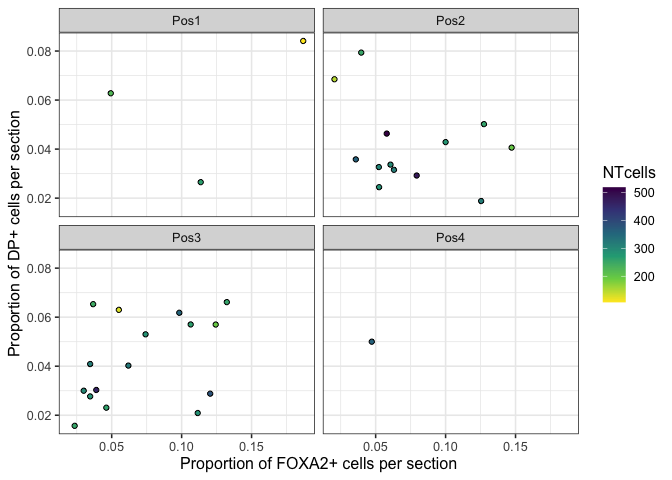
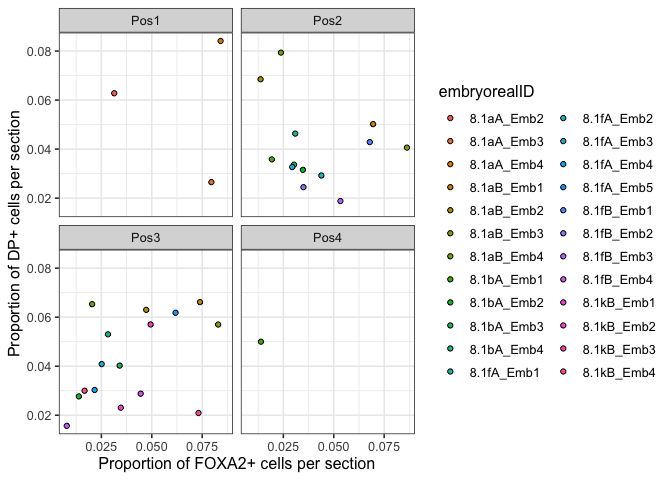
Update cKO segmentation

diff --git a/r_files/DP_segment_FOXA2KO.md b/r_files/DP_segment_FOXA2KO.md
@@ -73,7 +73,7 @@ ggplot(segment_cp_clean, aes(x=Location_Center_X,y=-Location_Center_Y)) +
   geom_point(size=0.1, aes(color=Intensity_MeanIntensity_FOXA2_Image))+
   scale_color_gradient2(low = "grey", mid = "white", high = "brown") +
   facet_wrap( ~ embryoID) +
-  coord_fixed(ratio = 1, xlim = NULL, ylim = NULL, expand = TRUE, clip = "on") +
+  #coord_fixed(ratio = 1, xlim = NULL, ylim = NULL) +
   theme_bw()
 ```
 
@@ -85,7 +85,7 @@ ggplot(segment_cp_clean, aes(x=Location_Center_X,y=-Location_Center_Y)) +
   geom_point(size=0.1, aes(color=Intensity_MeanIntensity_SOX2_Image))+
   scale_color_gradient2(low = "grey", mid = "white", high = "brown") +
   facet_wrap( ~ embryoID) +
-  coord_fixed(ratio = 1, xlim = NULL, ylim = NULL, expand = TRUE, clip = "on") +
+  #coord_fixed(ratio = 1, xlim = NULL, ylim = NULL, expand = TRUE, clip = "on") +
   theme_bw()
 ```
 
@@ -97,7 +97,7 @@ ggplot(segment_cp_clean, aes(x=Location_Center_X,y=-Location_Center_Y)) +
 sox2_thres = 0.25
 nkx22_thress = 0.35
 olig2_thress = 0.2
-foxa2_thress = 0.15
+foxa2_thress = 0.3
 
 ggplot(segment_cp_clean, aes(x=Intensity_MeanIntensity_SOX2_Image, y=Intensity_MeanIntensity_OLIG2_Image)) +
   geom_hex(binwidth = c(0.04, 0.04))  +
@@ -106,7 +106,7 @@ ggplot(segment_cp_clean, aes(x=Intensity_MeanIntensity_SOX2_Image, y=Intensity_M
   scale_x_log10()+
   scale_y_log10() +
   facet_wrap(~ embryoID) +
-  coord_fixed(ratio = 1, xlim = NULL, ylim = NULL, expand = TRUE, clip = "on") +
+  # coord_fixed(ratio = 1, xlim = NULL, ylim = NULL, expand = TRUE, clip = "on") +
   theme_bw()
 ```
 
@@ -120,7 +120,7 @@ ggplot(segment_cp_clean, aes(x=Intensity_MeanIntensity_SOX2_Image, y=Intensity_M
   scale_x_log10()+
   scale_y_log10() +
   facet_wrap(~ embryoID) +
-  coord_fixed(ratio = 1, xlim = NULL, ylim = NULL, expand = TRUE, clip = "on") +
+  # coord_fixed(ratio = 1, xlim = NULL, ylim = NULL, expand = TRUE, clip = "on") +
   theme_bw()
 ```
 
@@ -134,7 +134,7 @@ ggplot(segment_cp_clean, aes(x=Intensity_MeanIntensity_OLIG2_Image, y=Intensity_
   scale_x_log10()+
   scale_y_log10() +
   facet_wrap(~ embryoID) +
-  coord_fixed(ratio = 1, xlim = NULL, ylim = NULL, expand = TRUE, clip = "on") +
+  # coord_fixed(ratio = 1, xlim = NULL, ylim = NULL, expand = TRUE, clip = "on") +
   theme_bw()
 ```
 
@@ -148,11 +148,26 @@ ggplot(segment_cp_clean, aes(x=Intensity_MeanIntensity_FOXA2_Image, y=Intensity_
   scale_x_log10()+
   scale_y_log10() +
   facet_wrap(~ embryoID) +
-  coord_fixed(ratio = 1, xlim = NULL, ylim = NULL, expand = TRUE, clip = "on") +
+  # coord_fixed(ratio = 1, xlim = NULL, ylim = NULL, expand = TRUE, clip = "on") +
   theme_bw()
 ```
 
 ![](DP_segment_FOXA2KO_files/figure-gfm/unnamed-chunk-6-4.png)<!-- -->
+
+``` r
+ggplot(segment_cp_clean, aes(x=Intensity_MeanIntensity_FOXA2_Image, y=Intensity_MeanIntensity_NKX22_Image)) +
+  geom_point(size=0.2, aes(color=Intensity_MeanIntensity_FOXA2_Image)) +
+  scale_color_gradient2(low = "grey", mid = "white", high = "brown") +
+  geom_vline(xintercept=foxa2_thress,  linetype="dashed", color = "blue") +
+  geom_hline(yintercept=nkx22_thress,  linetype="dashed", color = "blue") +
+  scale_x_log10()+
+  scale_y_log10() +
+  facet_wrap(~ embryoID) +
+  # coord_fixed(ratio = 1, xlim = NULL, ylim = NULL, expand = TRUE, clip = "on") +
+  theme_bw()
+```
+
+![](DP_segment_FOXA2KO_files/figure-gfm/unnamed-chunk-7-1.png)<!-- -->
 
 ``` r
 ggplot(segment_cp_clean, aes(x=Intensity_MeanIntensity_OLIG2_Image, y=Intensity_MeanIntensity_NKX22_Image)) +
@@ -163,11 +178,41 @@ ggplot(segment_cp_clean, aes(x=Intensity_MeanIntensity_OLIG2_Image, y=Intensity_
   scale_x_log10()+
   scale_y_log10() +
   facet_wrap(~ embryoID) +
-  coord_fixed(ratio = 1, xlim = NULL, ylim = NULL, expand = TRUE, clip = "on") +
+  # coord_fixed(ratio = 1, xlim = NULL, ylim = NULL, expand = TRUE, clip = "on") +
   theme_bw()
 ```
 
-![](DP_segment_FOXA2KO_files/figure-gfm/unnamed-chunk-6-5.png)<!-- -->
+![](DP_segment_FOXA2KO_files/figure-gfm/unnamed-chunk-7-2.png)<!-- -->
+
+``` r
+ggplot(segment_cp_clean, aes(x=Intensity_MeanIntensity_SOX2_Image, y=Intensity_MeanIntensity_NKX22_Image)) +
+  geom_point(size=0.2, aes(color=Intensity_MeanIntensity_FOXA2_Image)) +
+  scale_color_gradient2(low = "grey", mid = "white", high = "brown") +
+  geom_vline(xintercept=sox2_thres,  linetype="dashed", color = "blue") +
+  geom_hline(yintercept=nkx22_thress,  linetype="dashed", color = "blue") +
+  scale_x_log10()+
+  scale_y_log10() +
+  facet_wrap(~ embryoID) +
+  # coord_fixed(ratio = 1, xlim = NULL, ylim = NULL, expand = TRUE, clip = "on") +
+  theme_bw()
+```
+
+![](DP_segment_FOXA2KO_files/figure-gfm/unnamed-chunk-7-3.png)<!-- -->
+
+``` r
+ggplot(segment_cp_clean, aes(x=Intensity_MeanIntensity_FOXA2_Image, y=Intensity_MeanIntensity_SOX2_Image)) +
+  geom_point(size=0.2, aes(color=Intensity_MeanIntensity_FOXA2_Image)) +
+  scale_color_gradient2(low = "grey", mid = "white", high = "brown") +
+  geom_vline(xintercept=foxa2_thress,  linetype="dashed", color = "blue") +
+  geom_hline(yintercept=sox2_thres,  linetype="dashed", color = "blue") +
+  # scale_x_log10()+
+  # scale_y_log10() +
+  facet_wrap(~ embryoID) +
+  # coord_fixed(ratio = 1, xlim = NULL, ylim = NULL, expand = TRUE, clip = "on") +
+  theme_bw()
+```
+
+![](DP_segment_FOXA2KO_files/figure-gfm/unnamed-chunk-7-4.png)<!-- -->
 
 ### Steps
 
@@ -182,7 +227,7 @@ Classification based on Intensity_MeanIntensity_ANTIBODY_Image and the
 thresholds above.
 
 sox2_thres = 0.25 nkx22_thress = 0.35 olig2_thress = 0.2 foxa2_thress =
-0.15
+0.3
 
 ``` r
 full_classified <- segment_cp_clean %>%
@@ -196,27 +241,27 @@ ggplot(full_classified, aes(x=Location_Center_X,y=-Location_Center_Y)) +
   #geom_point(size=0.01) +
   geom_point(size=0.1, aes(color=celltype))+
   facet_wrap( ~ embryoID) +
-  coord_fixed(ratio = 1, xlim = NULL, ylim = NULL, expand = TRUE, clip = "on") +
+  # coord_fixed(ratio = 1, xlim = NULL, ylim = NULL, expand = TRUE, clip = "on") +
   theme_bw()
 ```
 
-![](DP_segment_FOXA2KO_files/figure-gfm/unnamed-chunk-7-1.png)<!-- -->
+![](DP_segment_FOXA2KO_files/figure-gfm/unnamed-chunk-8-1.png)<!-- -->
 
 ``` r
 ggplot(full_classified, aes(x=Location_Center_X,y=-Location_Center_Y)) +
   #geom_point(size=0.01) +
   geom_point(size=0.1, aes(color=foxa2_positive))+
   facet_wrap( ~ embryoID) +
-  coord_fixed(ratio = 1, xlim = NULL, ylim = NULL, expand = TRUE, clip = "on") +
+  # coord_fixed(ratio = 1, xlim = NULL, ylim = NULL, expand = TRUE, clip = "on") +
   theme_bw()
 ```
 
-![](DP_segment_FOXA2KO_files/figure-gfm/unnamed-chunk-7-2.png)<!-- -->
+![](DP_segment_FOXA2KO_files/figure-gfm/unnamed-chunk-8-2.png)<!-- -->
 
-#### Filter background Nkx22 cells based on position
+#### Filter background SOX2+ FOXA2+ cells based on position
 
 Cell that are positioned more than 5 standard deviations away from the
-mean (dashed red line) of the pMN population will be excluded. Visualize
+mean of the pMN population (dashed red line) will be excluded. Visualize
 the excluded cells below.
 
 ``` r
@@ -244,11 +289,11 @@ ggplot(full_classified, aes(x=Location_Center_X, y=-Location_Center_Y)) +
   expand_limits(y=c(0,-1024),x=c(0,1024)) +
   geom_hline(data=full_classified_mean_pmnposition, aes(yintercept=-(ave_y+5*sd_y)),linetype='dashed', col = 'red') +
   facet_wrap(~ embryoID) +
-  coord_fixed(ratio = 1) +
+  # coord_fixed(ratio = 1) +
   theme_bw(base_size = 8)
 ```
 
-![](DP_segment_FOXA2KO_files/figure-gfm/unnamed-chunk-8-1.png)<!-- -->
+![](DP_segment_FOXA2KO_files/figure-gfm/unnamed-chunk-9-1.png)<!-- -->
 
 Identify y pos of cells to be filtered
 
@@ -270,51 +315,27 @@ classified_filtered <- full_classified %>%
 ggplot(classified_filtered, aes(x=Location_Center_X,y=-Location_Center_Y)) +
   geom_point(size=0.1, aes(color=celltype))+
   facet_wrap( ~ embryoID) +
-  coord_fixed(ratio = 1, xlim = NULL, ylim = NULL, expand = TRUE, clip = "on") +
+  # coord_fixed(ratio = 1, xlim = NULL, ylim = NULL, expand = TRUE, clip = "on") +
   theme_bw()
 ```
 
-![](DP_segment_FOXA2KO_files/figure-gfm/unnamed-chunk-10-1.png)<!-- -->
+![](DP_segment_FOXA2KO_files/figure-gfm/unnamed-chunk-11-1.png)<!-- -->
 
 ``` r
 ggplot(classified_filtered, aes(x=Location_Center_X,y=-Location_Center_Y)) +
   geom_point(size=0.1, aes(color=foxa2_positive))+
   facet_wrap( ~ embryoID) +
-  coord_fixed(ratio = 1, xlim = NULL, ylim = NULL, expand = TRUE, clip = "on") +
+  # coord_fixed(ratio = 1, xlim = NULL, ylim = NULL, expand = TRUE, clip = "on") +
   theme_bw()
 ```
 
-![](DP_segment_FOXA2KO_files/figure-gfm/unnamed-chunk-10-2.png)<!-- -->
+![](DP_segment_FOXA2KO_files/figure-gfm/unnamed-chunk-11-2.png)<!-- -->
 
 ## the plot
 
 ``` r
-classified_filtered
-```
+# classified_filtered
 
-    ## # A tibble: 11,049 × 12
-    ## # Groups:   ImageNumber, embryoID [33]
-    ##    ImageNumber embryoID        Intensity_MeanIntensity_…¹ Intensity_MeanIntens…²
-    ##          <int> <chr>                                <dbl>                  <dbl>
-    ##  1           1 8.1aA_Pos1_Emb2                      0.610                 0.0833
-    ##  2           1 8.1aA_Pos1_Emb2                      0.539                 0.103 
-    ##  3           1 8.1aA_Pos1_Emb2                      0.557                 0.114 
-    ##  4           1 8.1aA_Pos1_Emb2                      0.641                 0.121 
-    ##  5           1 8.1aA_Pos1_Emb2                      0.703                 0.102 
-    ##  6           1 8.1aA_Pos1_Emb2                      0.382                 0.0857
-    ##  7           1 8.1aA_Pos1_Emb2                      0.543                 0.113 
-    ##  8           1 8.1aA_Pos1_Emb2                      0.740                 0.117 
-    ##  9           1 8.1aA_Pos1_Emb2                      0.414                 0.0576
-    ## 10           1 8.1aA_Pos1_Emb2                      0.544                 0.109 
-    ## # ℹ 11,039 more rows
-    ## # ℹ abbreviated names: ¹Intensity_MeanIntensity_DAPI_Image,
-    ## #   ²Intensity_MeanIntensity_FOXA2_Image
-    ## # ℹ 8 more variables: Intensity_MeanIntensity_NKX22_Image <dbl>,
-    ## #   Intensity_MeanIntensity_OLIG2_Image <dbl>,
-    ## #   Intensity_MeanIntensity_SOX2_Image <dbl>, Location_Center_X <dbl>,
-    ## #   Location_Center_Y <dbl>, celltype <chr>, foxa2_positive <chr>, …
-
-``` r
 classified_filtered_celltype_counts <- classified_filtered %>%
   mutate(celltype = factor(celltype, levels = c("DP","p3","pMN","Sox2_notp3","othercell"))) %>%
   # mutate(foxa2_positive = factor(foxa2_positive, levels = c("Foxa2","notFoxa2"))) %>%
@@ -348,7 +369,7 @@ ggplot(classified_filtered_celltype_and_FOXA2, aes(x=Foxa2, y=DP)) +
   theme_bw(base_size = 12)
 ```
 
-![](DP_segment_FOXA2KO_files/figure-gfm/unnamed-chunk-12-1.png)<!-- -->
+![](DP_segment_FOXA2KO_files/figure-gfm/unnamed-chunk-13-1.png)<!-- -->
 
 Is it just bigger embryos have more cells?
 
@@ -361,7 +382,7 @@ ggplot(classified_filtered_celltype_and_FOXA2, aes(x=Foxa2, y=p3)) +
   theme_bw(base_size = 12)
 ```
 
-![](DP_segment_FOXA2KO_files/figure-gfm/unnamed-chunk-13-1.png)<!-- -->
+![](DP_segment_FOXA2KO_files/figure-gfm/unnamed-chunk-14-1.png)<!-- -->
 
 Proportions instead?
 
@@ -383,7 +404,7 @@ ggplot(classified_filtered_celltype_and_FOXA2_prop, aes(x=prop_FOXA2, y=prop_DP)
   theme_bw(base_size = 12)
 ```
 
-![](DP_segment_FOXA2KO_files/figure-gfm/unnamed-chunk-15-1.png)<!-- -->
+![](DP_segment_FOXA2KO_files/figure-gfm/unnamed-chunk-16-1.png)<!-- -->
 
 ``` r
 ggplot(classified_filtered_celltype_and_FOXA2_prop, aes(x=prop_FOXA2, y=prop_DP)) +
@@ -396,7 +417,7 @@ ggplot(classified_filtered_celltype_and_FOXA2_prop, aes(x=prop_FOXA2, y=prop_DP)
   theme_bw(base_size = 12)
 ```
 
-![](DP_segment_FOXA2KO_files/figure-gfm/unnamed-chunk-16-1.png)<!-- -->
+![](DP_segment_FOXA2KO_files/figure-gfm/unnamed-chunk-17-1.png)<!-- -->
 
 ``` r
 ggplot(classified_filtered_celltype_and_FOXA2_prop, aes(x=Foxa2, y=DP)) +
@@ -408,7 +429,7 @@ ggplot(classified_filtered_celltype_and_FOXA2_prop, aes(x=Foxa2, y=DP)) +
   theme_bw(base_size = 12)
 ```
 
-![](DP_segment_FOXA2KO_files/figure-gfm/unnamed-chunk-16-2.png)<!-- -->
+![](DP_segment_FOXA2KO_files/figure-gfm/unnamed-chunk-17-2.png)<!-- -->
 
 ``` r
 classified_filtered_celltype_and_FOXA2_prop_ave <- classified_filtered_celltype_and_FOXA2_prop %>%
@@ -416,25 +437,66 @@ classified_filtered_celltype_and_FOXA2_prop_ave <- classified_filtered_celltype_
   summarise(mean_propDP=mean(prop_DP),
          sd_propDP=sd(prop_DP),
          sd_propFOXA2=sd(prop_FOXA2),
-         mean_propFOXA2=mean(prop_FOXA2))
+         mean_propFOXA2=mean(prop_FOXA2),
+         mean_NTcell=mean(NTcells))
 
 
 ggplot(classified_filtered_celltype_and_FOXA2_prop_ave, aes(x=embryorealID, y=mean_propDP)) +
   geom_col(aes(fill=embryorealID)) +
-  geom_point(data = classified_filtered_celltype_and_FOXA2_prop, aes(x=embryorealID, y=prop_DP, fill=embryorealID), color="black", shape=21) +
+  geom_point(data = classified_filtered_celltype_and_FOXA2_prop, aes(x=embryorealID, y=prop_DP, fill=embryorealID,shape=pos), color="black") +
   theme_bw() +theme(axis.text.x = element_text(angle = 90, vjust = 0.5, hjust=1))
 ```
 
-![](DP_segment_FOXA2KO_files/figure-gfm/unnamed-chunk-17-1.png)<!-- -->
+![](DP_segment_FOXA2KO_files/figure-gfm/unnamed-chunk-18-1.png)<!-- -->
 
 ``` r
 ggplot(classified_filtered_celltype_and_FOXA2_prop_ave, aes(x=embryorealID, y=mean_propFOXA2)) +
   geom_col(aes(fill=embryorealID)) +
-  geom_point(data = classified_filtered_celltype_and_FOXA2_prop, aes(x=embryorealID, y=prop_FOXA2, fill=embryorealID), color="black", shape=21) +
+  geom_point(data = classified_filtered_celltype_and_FOXA2_prop, aes(x=embryorealID, y=prop_FOXA2, fill=embryorealID,shape=pos), color="black") +
   theme_bw() +theme(axis.text.x = element_text(angle = 90, vjust = 0.5, hjust=1))
 ```
 
-![](DP_segment_FOXA2KO_files/figure-gfm/unnamed-chunk-17-2.png)<!-- -->
+![](DP_segment_FOXA2KO_files/figure-gfm/unnamed-chunk-18-2.png)<!-- -->
+
+``` r
+ggplot(classified_filtered_celltype_and_FOXA2_prop_ave, aes(x=embryorealID, y=mean_NTcell)) +
+  geom_col(aes(fill=embryorealID)) +
+  geom_point(data = classified_filtered_celltype_and_FOXA2_prop, aes(x=embryorealID, y=NTcells, fill=embryorealID,shape=pos), color="black") +
+  theme_bw() +theme(axis.text.x = element_text(angle = 90, vjust = 0.5, hjust=1))
+```
+
+![](DP_segment_FOXA2KO_files/figure-gfm/unnamed-chunk-18-3.png)<!-- -->
+
+``` r
+ggplot(classified_filtered_celltype_and_FOXA2_prop_ave, aes(x=mean_propFOXA2, y=mean_propDP)) +
+  geom_linerange(aes(xmin = mean_propFOXA2-sd_propFOXA2,xmax = mean_propFOXA2+sd_propFOXA2), color="#cecece") + 
+  geom_linerange(aes(ymin = mean_propDP+sd_propDP,ymax = mean_propDP-sd_propDP), color="#cecece") + 
+  geom_point(aes(fill=embryorealID), color="black", shape=21) +
+  ylab("Proportion of DP+ cells per section") +
+  xlab("Proportion of FOXA2+ cells per section") +
+  theme_bw(base_size = 12)
+```
+
+    ## Warning: Removed 15 rows containing missing values (`geom_segment()`).
+    ## Removed 15 rows containing missing values (`geom_segment()`).
+
+![](DP_segment_FOXA2KO_files/figure-gfm/unnamed-chunk-19-1.png)<!-- -->
+
+``` r
+ggplot(classified_filtered_celltype_and_FOXA2_prop_ave, aes(x=mean_propFOXA2, y=mean_propDP)) +
+  geom_linerange(aes(xmin = mean_propFOXA2-sd_propFOXA2,xmax = mean_propFOXA2+sd_propFOXA2), color="#cecece") + 
+  geom_linerange(aes(ymin = mean_propDP+sd_propDP,ymax = mean_propDP-sd_propDP), color="#cecece") + 
+  geom_point(aes(fill=mean_NTcell), color="black", shape=21) +
+  scale_fill_viridis_c(direction=-1) +
+  ylab("Proportion of DP+ cells per section") +
+  xlab("Proportion of FOXA2+ cells per section") +
+  theme_bw(base_size = 12)
+```
+
+    ## Warning: Removed 15 rows containing missing values (`geom_segment()`).
+    ## Removed 15 rows containing missing values (`geom_segment()`).
+
+![](DP_segment_FOXA2KO_files/figure-gfm/unnamed-chunk-19-2.png)<!-- -->
 
 ``` r
 sessionInfo()
